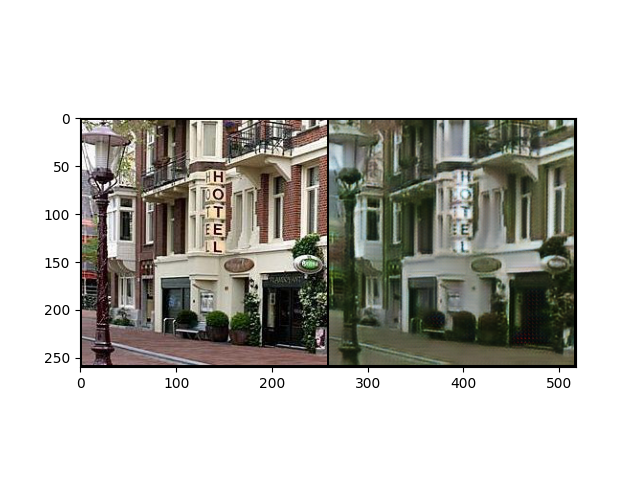
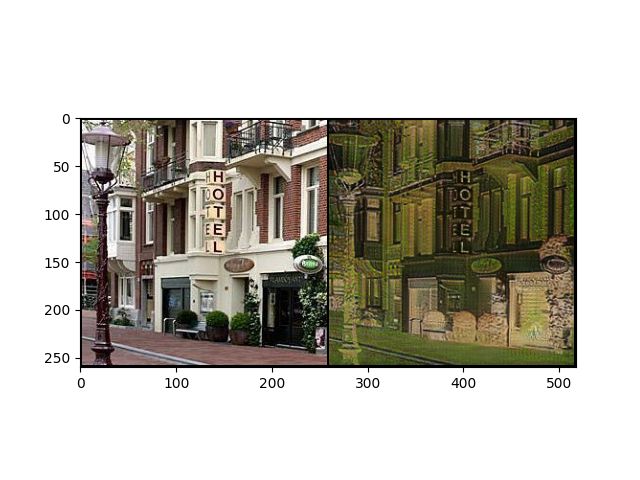
cyclegan 299

Changed region(s): [[0.5, 0.25, 0.9062, 0.7812]]

diff --git a/test.py b/test.py
@@ -177,7 +177,7 @@ def weights_init(m):
 
 pretrained = True
 if pretrained:
-    pre_dict = torch.load(weight_p2m + 'cycleGAN_base.pth')
+    pre_dict = torch.load(weights_ + 'cycleGAN_299.pth')
     gen_AB.load_state_dict(pre_dict['gen_AB'])
     gen_BA.load_state_dict(pre_dict['gen_BA'])
     gen_opt.load_state_dict(pre_dict['gen_opt'])
